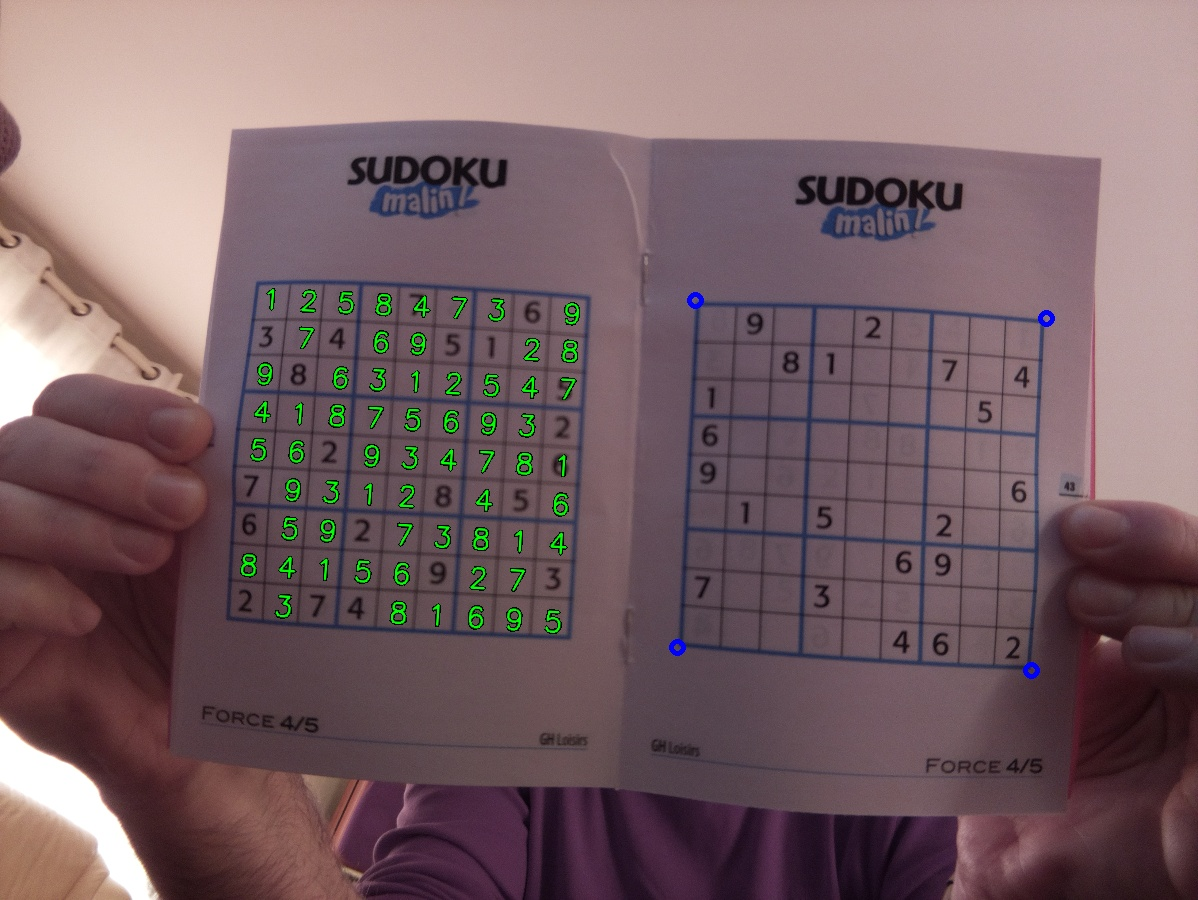
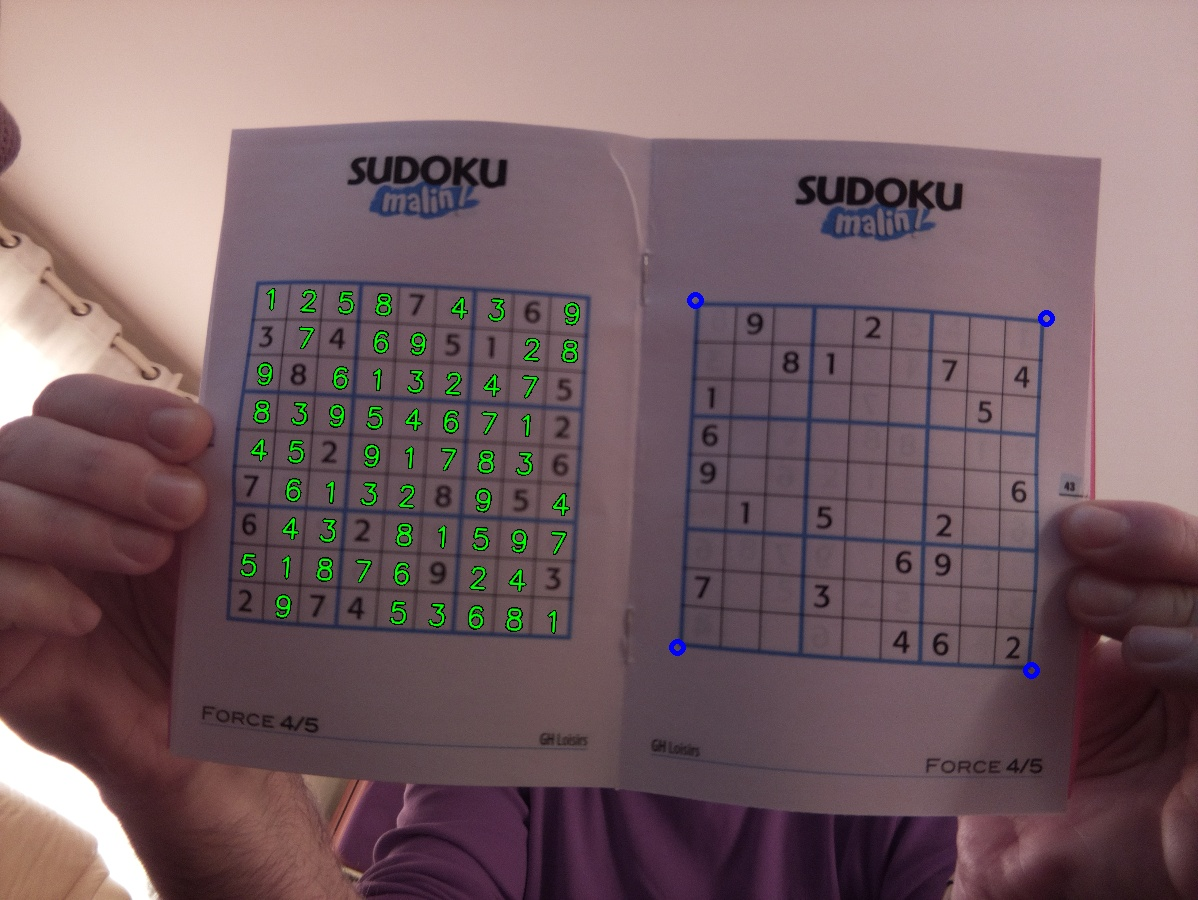
TRAINING IMPROOOVED

diff --git a/src/classifier/train_cnn_pandas.py b/src/classifier/train_cnn_pandas.py
@@ -4,11 +4,11 @@ import os
 import matplotlib.pyplot as plt
 import numpy as np
 import pandas as pd
-from keras.callbacks import ReduceLROnPlateau
-from keras.layers import Dense, Dropout, Flatten, Conv2D, MaxPool2D
-from keras.models import Sequential
-from keras.optimizers import RMSprop
-from keras.preprocessing.image import ImageDataGenerator
+from tensorflow.keras.callbacks import ReduceLROnPlateau
+from tensorflow.keras.layers import Dense, Dropout, Flatten, Conv2D, MaxPool2D
+from tensorflow.keras.models import Sequential
+from tensorflow.keras.optimizers import RMSprop
+from tensorflow.keras.preprocessing.image import ImageDataGenerator
 from keras.utils.np_utils import to_categorical  # convert to one-hot-encoding
 from sklearn.metrics import confusion_matrix
 from sklearn.model_selection import train_test_split
@@ -22,14 +22,15 @@ os.environ['TF_CPP_MIN_LOG_LEVEL'] = '3'
 
 
 handwritten = False
-include_zero = handwritten
+# include_zero = handwritten
+include_zero = True
 nbr_classes = 9 + int(include_zero)
 if handwritten:
     epochs = 4
     batch_size = 86
 else:
-    epochs = 20
-    batch_size = 32  # 86
+    epochs = 8 #20
+    batch_size = 16 #32  # 86
 
 datagen = ImageDataGenerator(
     featurewise_center=False,  # set input mean to 0 over the classifier
@@ -45,7 +46,7 @@ datagen = ImageDataGenerator(
     vertical_flip=False)  # randomly flip images_test
 
 # Set a learning rate annealer
-learning_rate_reduction = ReduceLROnPlateau(monitor='val_acc',
+learning_rate_reduction = ReduceLROnPlateau(monitor='val_accuracy',
                                             patience=3,
                                             verbose=1,
                                             factor=0.5,
@@ -88,8 +89,8 @@ def plot_history(history):
     ax[0].plot(history.history['val_loss'], color='r', label="validation loss", axes=ax[0])
     legend = ax[0].legend(loc='best', shadow=True)
 
-    ax[1].plot(history.history['acc'], color='b', label="Training accuracy")
-    ax[1].plot(history.history['val_acc'], color='r', label="Validation accuracy")
+    ax[1].plot(history.history['accuracy'], color='b', label="Training accuracy")
+    ax[1].plot(history.history['val_accuracy'], color='r', label="Validation accuracy")
     legend = ax[1].legend(loc='best', shadow=True)
 
 
@@ -172,7 +173,7 @@ def load_data(data_path, handwritten=False):
 
 
 def main():
-    continue_train = False
+    continue_train = True
     train = True
     data_augmentation = True
     separate = False
@@ -181,7 +182,8 @@ def main():
         dataset_path = "/media/hdd_linux/DataSet/mnist_handwritten/"
 
     else:
-        dataset_path = "/media/hdd_linux/DataSet/mnist_numeric/"
+        # dataset_path = "/media/hdd_linux/DataSet/mnist_numeric/"
+        dataset_path = "/media/hdd_linux/DataSet/Mine/"
 
     if already_split:
         x_train, y_train, x_test, y_test = load_data_split(dataset_path, handwritten)
@@ -192,13 +194,13 @@ def main():
     if continue_train or train:
 
         if continue_train:
-            from keras.models import load_model
-            models_path = '../../model/'
-            model_name = "{}model_1.h5".format(models_path, len(os.listdir(models_path)))
+            from tensorflow.keras.models import load_model
+            models_path = 'model/'
+            model_name = "{}my_super_model.h5".format(models_path, len(os.listdir(models_path)))
             model = load_model(model_name)
 
         else:
-            models_path = '../../model/'
+            models_path = 'model/'
             model = CNN_model()
 
         if not data_augmentation:

diff --git a/src/extract_n_solve/extract_digits.py b/src/extract_n_solve/extract_digits.py
@@ -165,7 +165,7 @@ def fill_img_grid(img, grid_matrix):
                 continue
             true_y, true_x = int((y + 0.2) * h_im / 9), int((x + 0.2) * w_im / 9)
             (text_width, text_height) = \
-            cv2.getTextSize(digit, font, fontScale=font_scale_small, thickness=thickness_small)[0]
+                cv2.getTextSize(digit, font, fontScale=font_scale_small, thickness=thickness_small)[0]
             cv2.putText(im_filled_grid, digit,
                         (true_x - int(text_width / 2), true_y + int(text_height / 2)),
                         font, font_scale_small, (0, 3, 0), thickness_small * 3)
@@ -199,7 +199,7 @@ def process_extract_digits(ims, model, display=False, display_digit=False):
     return grids
 
 
-def process_extract_digits_single(img, model, display=False, display_digit=False):
+def process_extract_digits_single(img, model, display=False, display_digit=False, save_images=False):
     # if resize:
     #     img = cv2.resize(img, (450, 450))
     # else:
@@ -210,6 +210,7 @@ def process_extract_digits_single(img, model, display=False, display_digit=False
     contours, _ = cv2.findContours(im_prepro, cv2.RETR_TREE, cv2.CHAIN_APPROX_SIMPLE)
     img_digits = []
     loc_digits = []
+
     for cnt in contours:
         x, y, w, h = cv2.boundingRect(cnt)
         y_true, x_true = y + h / 2, x + w / 2
@@ -240,10 +241,11 @@ def process_extract_digits_single(img, model, display=False, display_digit=False
     # preds = np.argmax(preds_proba, axis=1) + 1
     preds = []
     nbr_digits_extracted = 0
-    adapted_thresh_conf_cnn = find_adapted_thresh(preds_proba)
+    # adapted_thresh_conf_cnn = find_adapted_thresh(preds_proba)
+    adapted_thresh_conf_cnn = thresh_conf_cnn
     for pred_proba in preds_proba:
         arg_max = np.argmax(pred_proba)
-        if pred_proba[arg_max] > adapted_thresh_conf_cnn:
+        if pred_proba[arg_max] > adapted_thresh_conf_cnn and arg_max<9:
             preds.append(arg_max + 1)
             nbr_digits_extracted += 1
         else:
@@ -254,6 +256,17 @@ def process_extract_digits_single(img, model, display=False, display_digit=False
             y, x = loc_digits[i]
             cv2.imshow('pred_{} - {:.6f} - x/y : {}/{}'.format(preds[i], 100 * max(preds_proba[i]), int(x), int(y)),
                        img_digits[i])
+    if save_images:
+        for i in range(len(preds)):
+            pred = preds[i]
+            img_digit = img_digits[i]
+            class_name = "N" if pred == -1 else str(pred)
+            target_folder = os.path.join(my_dataset_path, class_name + "/")
+            if not os.path.isdir(target_folder):
+                os.mkdir(target_folder)
+            name = "{}_{}.jpg".format(class_name,len(os.listdir(target_folder)))
+            filename = os.path.join(target_folder, name)
+            cv2.imwrite(filename, img_digit)
 
     if nbr_digits_extracted < min_digits_extracted:
         if display:

diff --git a/src/classifier/dataset_preparation_pandas.py b/src/classifier/dataset_preparation_pandas.py
@@ -7,7 +7,7 @@ import numpy as np
 import pandas as pd
 from tqdm import tqdm
 
-dataset_path = "/media/hdd_linux/DataSet/mnist_numeric/"
+dataset_path = "/media/hdd_linux/DataSet/Mine/"
 img_size = 28 * 28
 
 
@@ -15,14 +15,15 @@ def create_csv(data_path):
     folders_list = [data_path + path for path in os.listdir(data_path) if os.path.isdir(data_path + path)]
 
     folders_list = [folder for folder in folders_list if not folder.endswith(tuple(["train", "test"]))]
-    folders_list = sorted(folders_list, key=lambda x: int(os.path.basename(x)[0]))
+    folders_list = sorted(folders_list, key=lambda x: os.path.basename(x))
     # df = pd.DataFrame({"label": [],
     #                    "images_test": []})
     columns = ['label'] + ["pixel" + str(i) for i in range(img_size)]
     df = pd.DataFrame(columns=columns)
 
     for folder in tqdm(folders_list, total=len(folders_list), desc="Big Loop"):
-        label = int(os.path.basename(folder)[0])
+        name = os.path.basename(folder)[0]
+        label = 10 if name == "N" else int(name)
         folder += "/"
         file_list = [folder + im_path for im_path in os.listdir(folder) if os.path.isfile(folder + im_path)]
         # file_list = file_list[:200]

diff --git a/src/test.py b/src/test.py
@@ -1,43 +1,6 @@
-import multiprocessing
-import random
-import time
+import os
+from settings import *
 
-ml = [random.random() for i in range(800)]
-
-
-def worker(val, send_end):
-    result = val * 25
-    # print(result)
-    send_end.send(result)
-
-
-def process_mt():
-    init = time.time()
-    jobs = []
-    pipe_list = []
-    for val in ml:
-        recv_end, send_end = multiprocessing.Pipe(False)
-        p = multiprocessing.Process(target=worker, args=(val, send_end))
-        jobs.append(p)
-        pipe_list.append(recv_end)
-        p.start()
-
-    for proc in jobs:
-        proc.join()
-    result_list = [x.recv() for x in pipe_list]
-    print(time.time() - init)
-
-
-def process():
-    init = time.time()
-
-    result_list = []
-    for val in ml:
-        result_list.append(val * 25)
-
-    print(time.time() - init)
-
-
-if __name__ == '__main__':
-    process_mt()
-    process()
+class_name = str(0)
+target_folder = os.path.join(my_dataset_path, class_name + "/")
+print(target_folder)

diff --git a/src/classifier/training.py b/src/classifier/training.py
@@ -113,12 +113,15 @@ def load_data(pickle_path, l_classes):
 
 if __name__ == '__main__':
     # --- CONST for training --- #
-    epochs = 20
-    batch_size = 32
-    validation_split = 0.15
+    epochs = 8
+    # epochs = 20
+    batch_size = 16
+    # batch_size = 32
+    validation_split = 0.1
 
     # --- PATH --- #
-    dataset_path = "/media/remi/hdd_linux/DataSet/mnist_numeric/"
+    # dataset_path = "/media/remi/hdd_linux/DataSet/mnist_numeric/"
+    dataset_path = "/media/hdd_linux/DataSet/Mine/"
     dataset_file = os.path.join(dataset_path, "mnist_numeric.pickle")
     names_file = os.path.join(dataset_path, "data.names")
     models_path = 'src/classifier/models/'

diff --git a/src/classifier/classification_preparation.py b/src/classifier/classification_preparation.py
@@ -117,7 +117,7 @@ def data_augmentation_imgaug(dataset_root_folder):
 
 
 if __name__ == '__main__':
-    dataset_path = "/media/hdd_linux/DataSet/mnist_numeric/"
+    dataset_path = "/media/hdd_linux/DataSet/Mine/"
 
     # img_path_main = dataset_path + "4/1.png"
     # im = cv2.cvtColor(cv2.imread(img_path_main), cv2.COLOR_BGR2RGB)

diff --git a/src/main_img.py b/src/main_img.py
@@ -88,7 +88,7 @@ def main_process_img(im_path, model, save=False, display=False, use_hough=True):
 
 
 if __name__ == '__main__':
-    model = load_model('model/my_model.h5')
+    model = load_model('model/my_super_model.h5')
     im_paths = [
         "images_test/sudoku.jpg",
         "images_test/sudoku1.jpg",

diff --git a/settings.py b/settings.py
@@ -12,6 +12,9 @@ tensorflow.compat.v1.logging.set_verbosity(tensorflow.compat.v1.logging.ERROR)
 
 CAMERA_PORT = 1
 
+# PATHS
+my_dataset_path = "/media/hdd_linux/DataSet/Mine/"
+
 # ----TEXT DISPLAY----#
 RED = (0, 0, 255)
 PURPLE = (255, 0, 255)

diff --git a/README.md b/README.md
@@ -104,11 +104,11 @@ with data augmentation. It gave me a precision of 99.5+ %
 
 ### TODO LIST
 
-- [X] More Robust
-- [X] Video Live Solving
-- [X] Better
-- [X] Stronger
-- [X] Faster
+- [X] More Robust (v1.2)
+- [X] Video Live Solving (v1.4)
+- [X] Better (v1.5)
+- [X] Stronger (v1.6)
+- [X] Faster (v1.7)
 - [ ] Improve Training
 - [ ] ~~Multi-threading Processing~~
 
